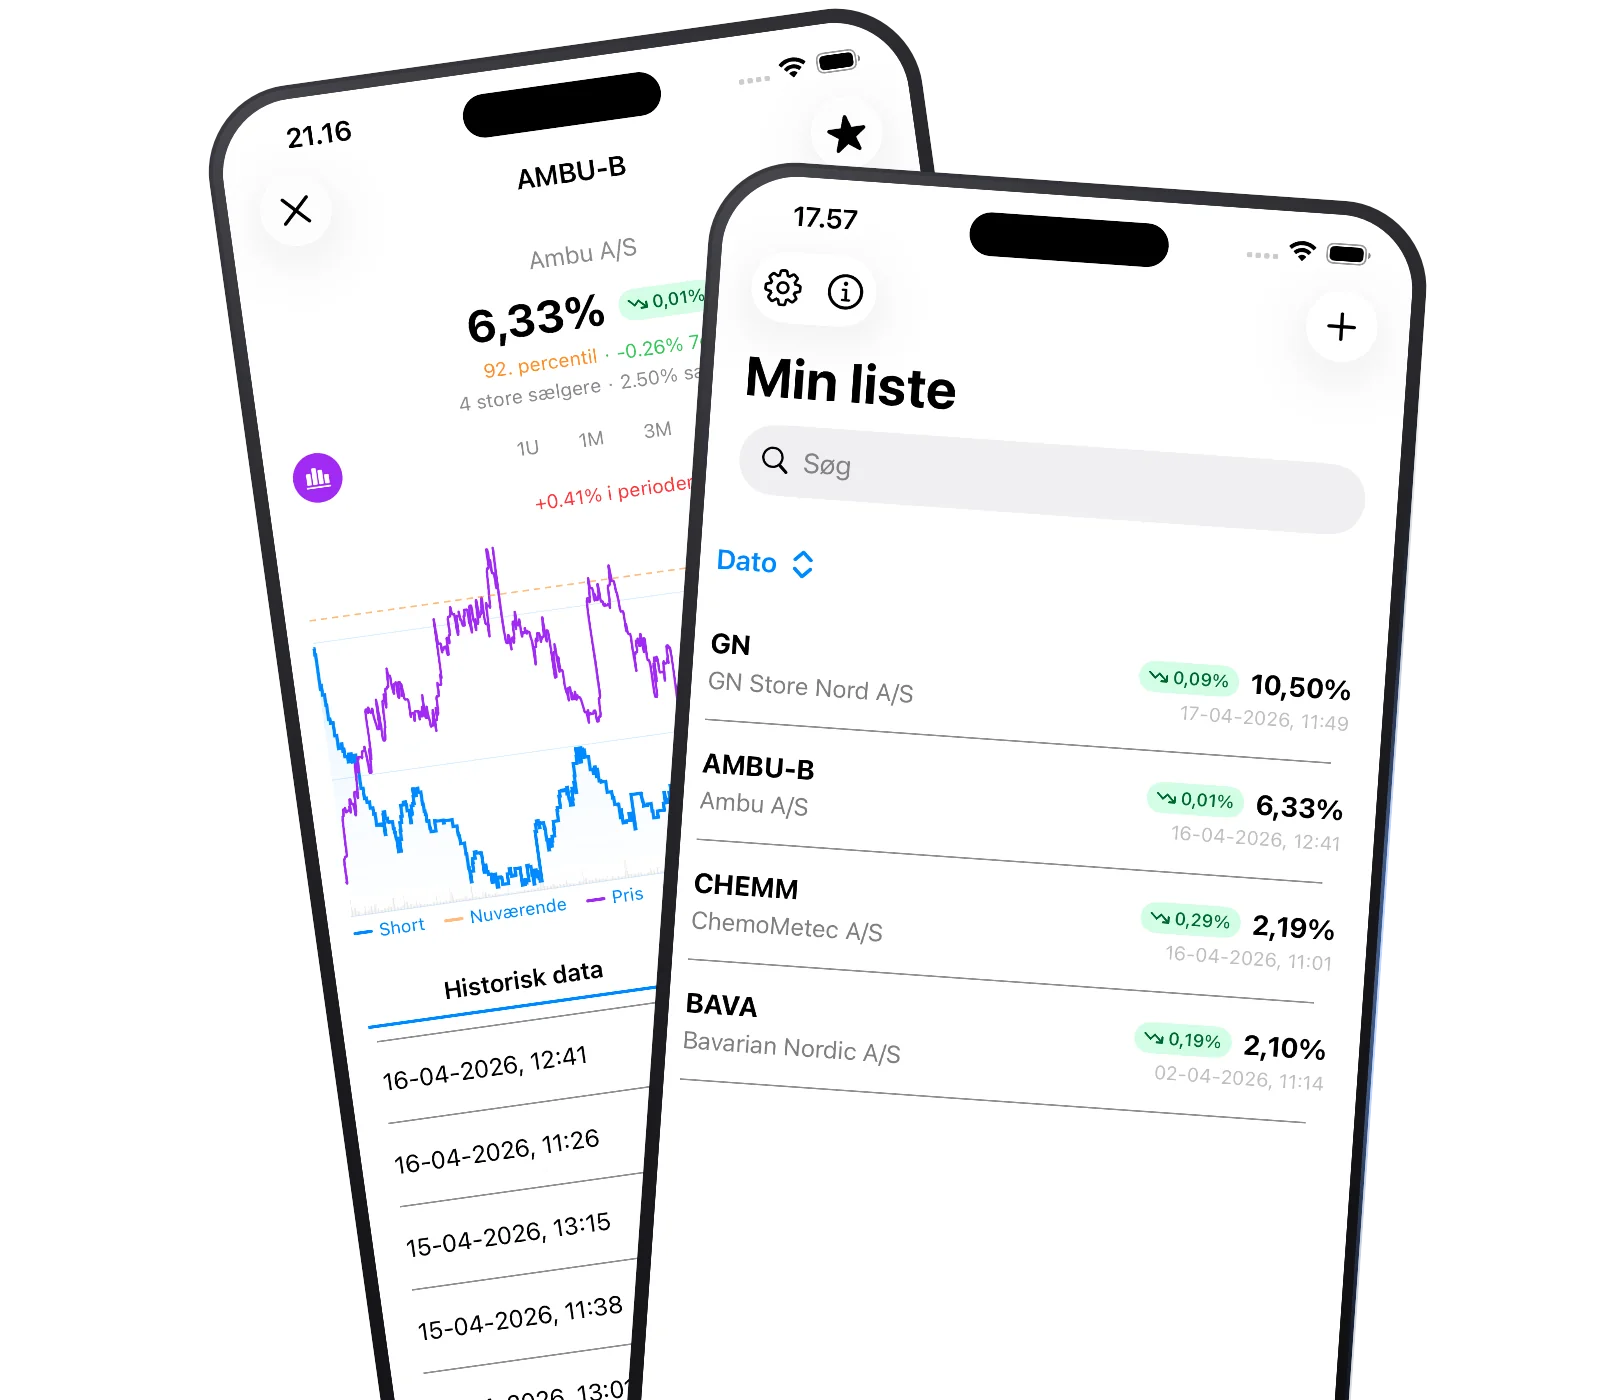
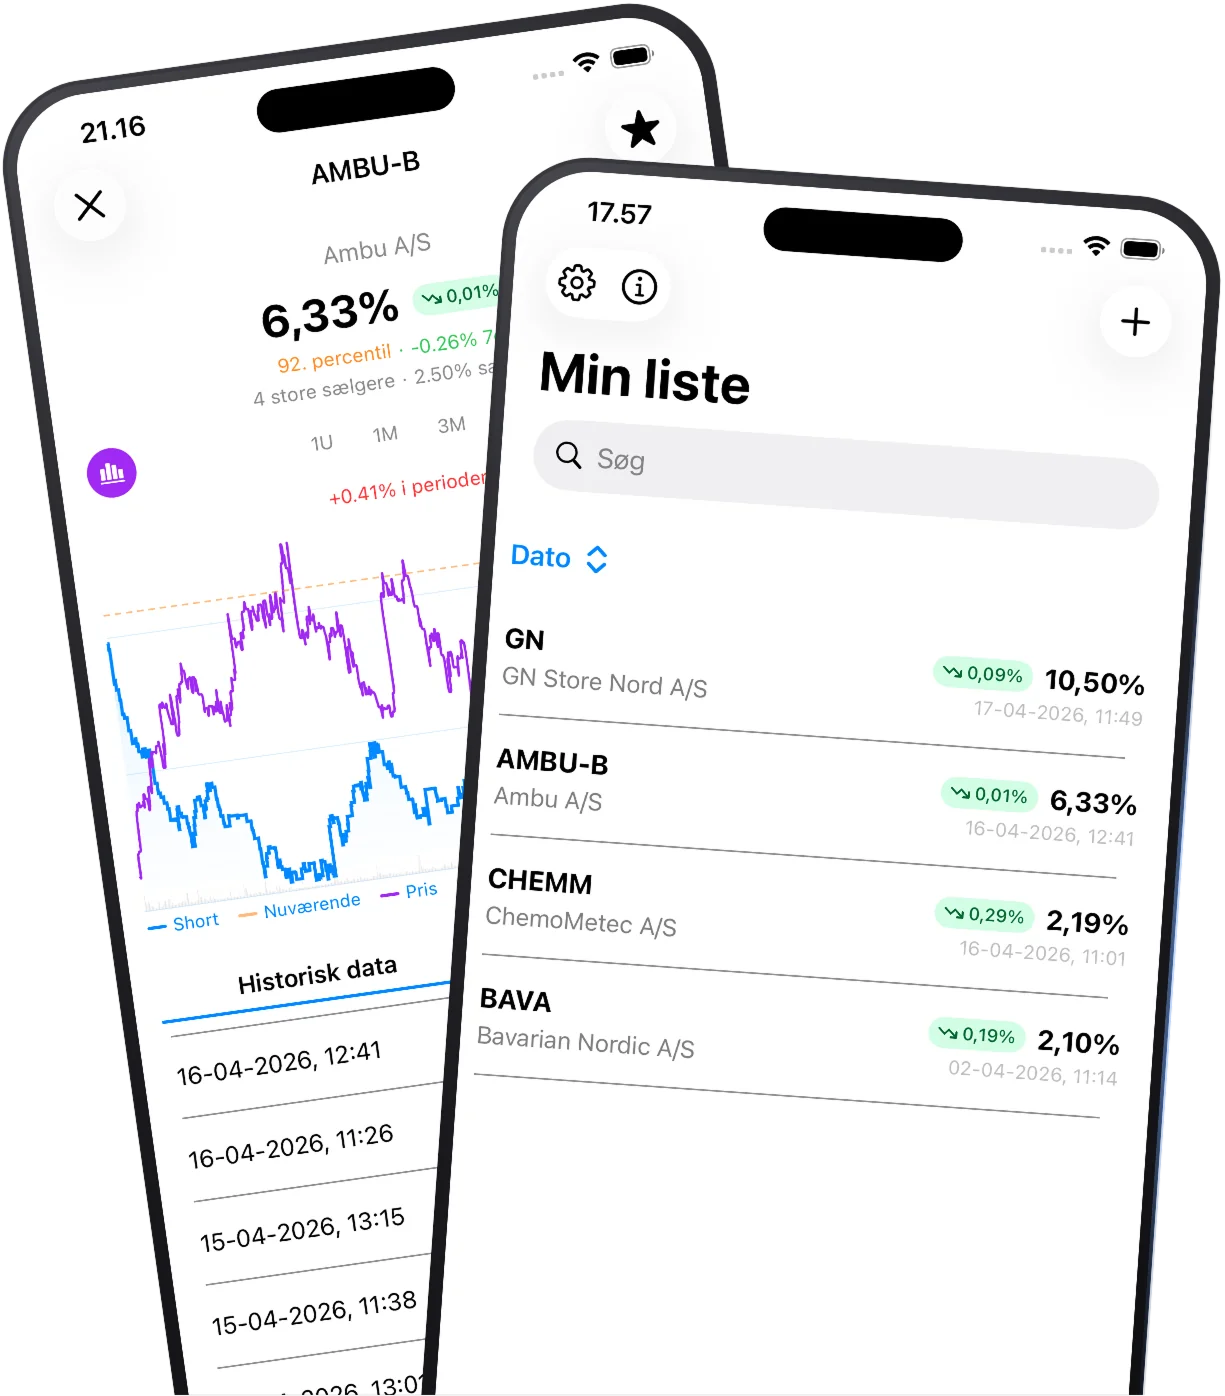
New app image and iPad fixes.

Changed region(s): [[0.0, 0.0, 1.0, 1.0], [0.5273, 0.5852, 0.6204, 0.616], [0.2482, 0.1232, 0.2792, 0.154]]

diff --git a/frontend/src/routes/HomePage.tsx b/frontend/src/routes/HomePage.tsx
@@ -103,8 +103,8 @@ const HomePage: React.FC = () => {
             </div>
           )}
 
-          <main id="main-content" className="flex flex-col sm:flex-row sm:max-w-[1000px] sm:justify-end gap-10 sm:gap-6 sm:h-[80%] mt-14 px-5 self-center sm:px-[20px]">
-            <div className="flex flex-col justify-start sm:pt-6 sm:pb-0 text-white gap-5 sm:w-[430px]">
+          <main id="main-content" className="flex flex-col sm:flex-row sm:max-w-[1000px] sm:justify-end gap-10 sm:h-[80%] mt-14 px-5 self-center sm:px-[20px]">
+            <div className="flex flex-col justify-start sm:pt-6 sm:pb-0 text-white gap-5 sm:w-[430px] sm:mr-5">
               <h1 className="text-3xl text-center sm:text-left sm:text-5xl tracking-tight">
                 Danish Short Watch
               </h1>

diff --git a/frontend/src/components/Homepage/AppImage.tsx b/frontend/src/components/Homepage/AppImage.tsx
@@ -9,7 +9,7 @@ const AppImage: React.FC = () => {
         alt="Danish Short Watch application showing stock data and charts"
         loading="lazy"
         width="400"
-        height="350"
+        height="456"
       />
       <div className="absolute bottom-[-25px] left-1/2 transform -translate-x-1/2 w-[80%] h-4 bg-black/35 rounded-[100%] blur-xl"></div>
     </div>

diff --git a/frontend/src/routes/ShortPositionDetailsPage.tsx b/frontend/src/routes/ShortPositionDetailsPage.tsx
@@ -280,7 +280,7 @@ const ShortPositionDetailsPage: React.FC = () => {
   }
 
   return (
-    <div className="h-screen dark:bg-[#121212] overflow-hidden max-md:landscape:overflow-auto max-md:landscape:h-auto max-md:landscape:min-h-screen">
+    <div className="h-screen dark:bg-[#121212] overflow-hidden [@media(max-height:900px)_and_(orientation:landscape)]:overflow-auto [@media(max-height:900px)_and_(orientation:landscape)]:h-auto [@media(max-height:900px)_and_(orientation:landscape)]:min-h-screen">
       <PageTemplate>
         <div className="w-screen lg:flex lg:justify-center lg:gap-4  m-auto">
           <div className="w-1/3 justify-end items-center hidden"></div>

diff --git a/frontend/src/routes/ShortSellerDetailsPage.tsx b/frontend/src/routes/ShortSellerDetailsPage.tsx
@@ -148,7 +148,7 @@ const ShortSellerDetailsPage: React.FC = () => {
   }
 
   return (
-    <div className="h-screen dark:bg-[#121212] overflow-hidden max-md:landscape:overflow-auto max-md:landscape:h-auto max-md:landscape:min-h-screen">
+    <div className="h-screen dark:bg-[#121212] overflow-hidden [@media(max-height:900px)_and_(orientation:landscape)]:overflow-auto [@media(max-height:900px)_and_(orientation:landscape)]:h-auto [@media(max-height:900px)_and_(orientation:landscape)]:min-h-screen">
       <PageTemplate>
         <div className="w-screen lg:flex lg:justify-center lg:gap-4  m-auto">
           <div className="w-1/3 justify-end items-center hidden"></div>

diff --git a/frontend/src/routes/ShortSellersPage.tsx b/frontend/src/routes/ShortSellersPage.tsx
@@ -120,7 +120,7 @@ const ShortSellersPage: React.FC = () => {
   }
 
   return (
-    <div className="h-screen xl:h-[calc(100dvh)] min-h-[620px] overflow-hidden max-md:landscape:overflow-auto max-md:landscape:h-auto max-md:landscape:min-h-screen">
+    <div className="h-screen xl:h-[calc(100dvh)] min-h-[620px] overflow-hidden [@media(max-height:900px)_and_(orientation:landscape)]:overflow-auto [@media(max-height:900px)_and_(orientation:landscape)]:h-auto [@media(max-height:900px)_and_(orientation:landscape)]:min-h-screen">
       <PageTemplate>
         <div className="w-screen lg:flex lg:justify-center lg:gap-4 m-auto">
           <div className="w-1/3 justify-start items-center hidden"></div>

diff --git a/frontend/src/routes/ShortWatchPage.tsx b/frontend/src/routes/ShortWatchPage.tsx
@@ -140,7 +140,7 @@ const ShortWatchPage: React.FC = () => {
   }
 
   return (
-    <div className="h-screen xl:h-[calc(100dvh)] min-h-[620px] overflow-hidden max-md:landscape:overflow-auto max-md:landscape:h-auto max-md:landscape:min-h-screen">
+    <div className="h-screen xl:h-[calc(100dvh)] min-h-[620px] overflow-hidden [@media(max-height:900px)_and_(orientation:landscape)]:overflow-auto [@media(max-height:900px)_and_(orientation:landscape)]:h-auto [@media(max-height:900px)_and_(orientation:landscape)]:min-h-screen">
       <PageTemplate>
         <div className="w-screen lg:flex lg:justify-center lg:gap-4  m-auto">
           <div className="w-1/3 justify-start items-center hidden"></div>